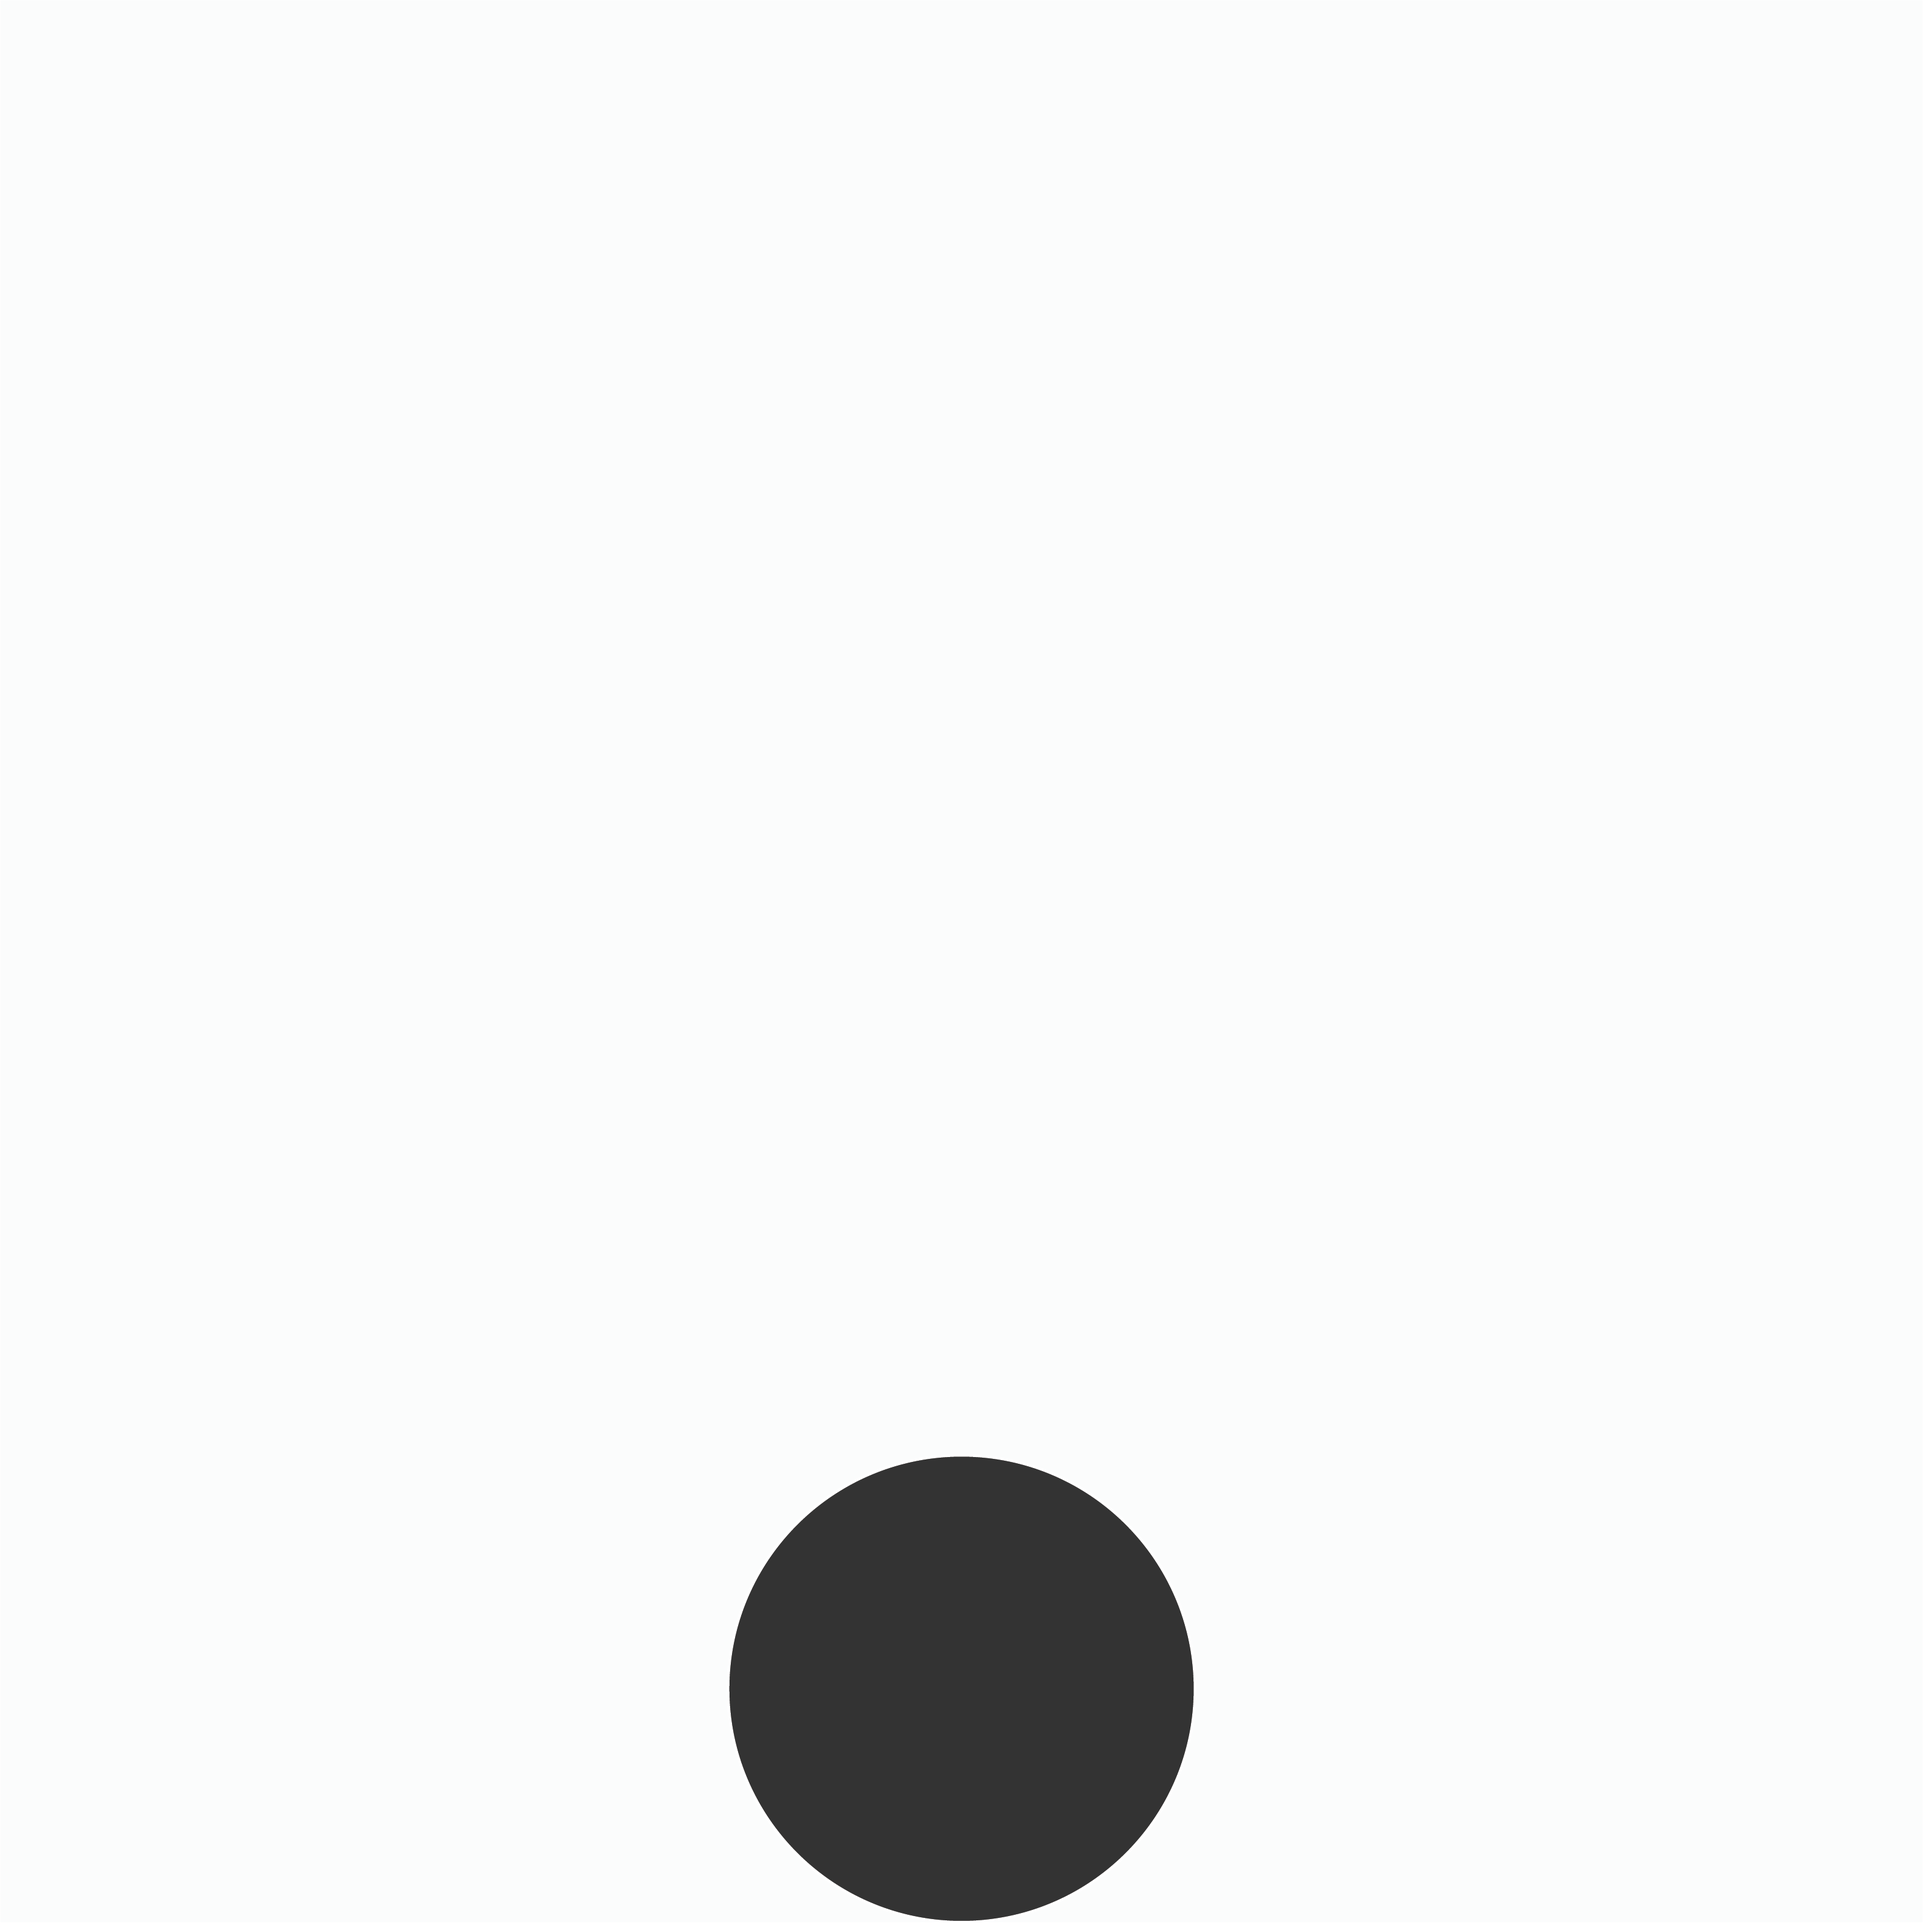
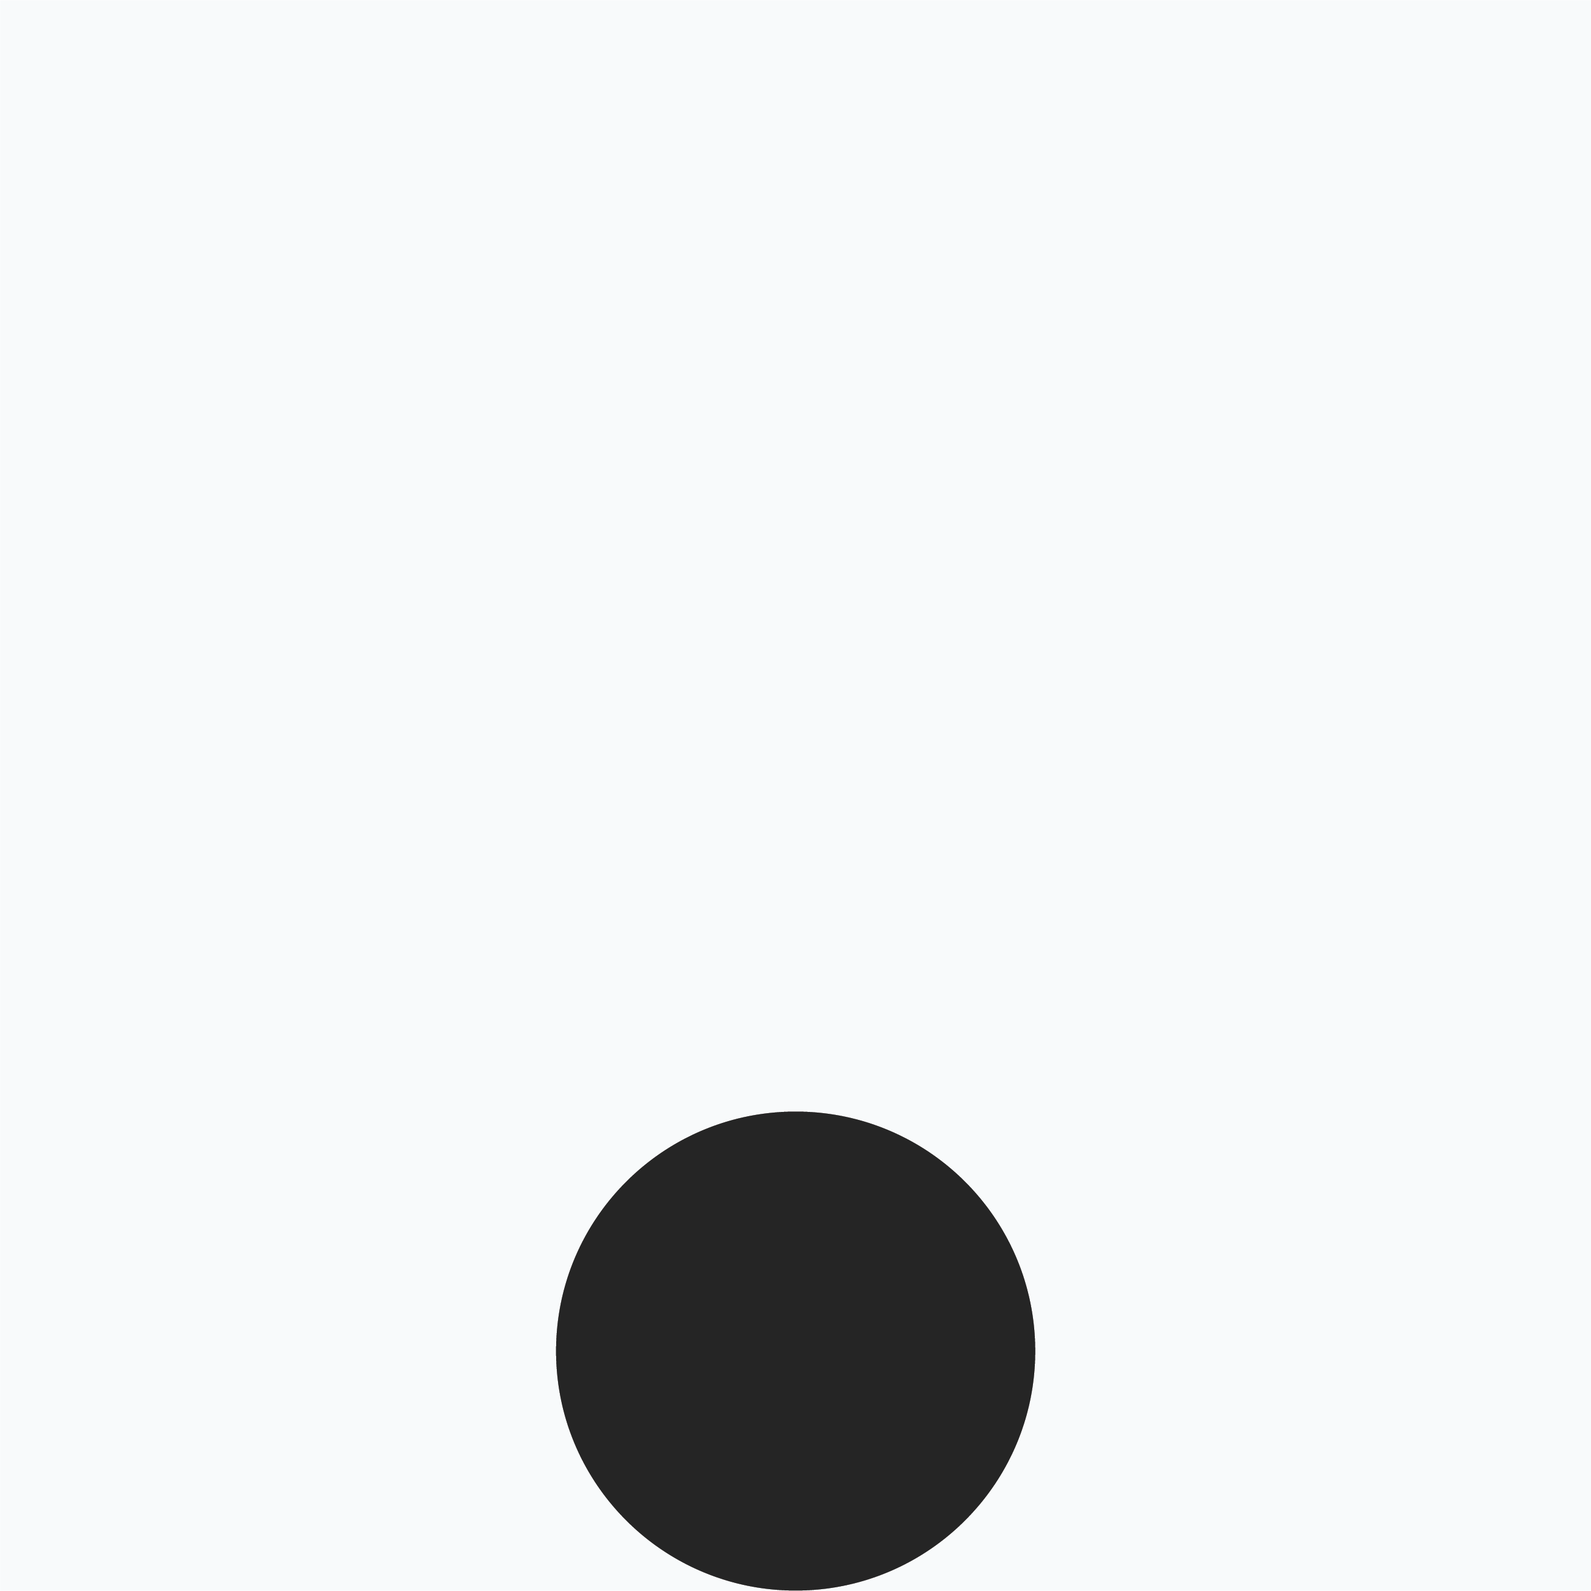
Done

diff --git a/style.css b/style.css
@@ -15,17 +15,20 @@
     background-position: center;
     background-size: contain;
 }
+.blend{
+    mix-blend-mode: multiply;
+}
 .eye1{
     z-index: 100;
     position: absolute;
-    width: 0.55rem;
+    width: 0.5rem;
     top: 69px;
     left: 74px;
 }
 .eye2{
     z-index: 100;
     position: absolute;
-    width: 0.55rem;
+    width: 0.5rem;
     top: 69px;
     left: 108px;
 }

diff --git a/index.html b/index.html
@@ -10,7 +10,7 @@
     <div class="charater-area">
         <div class="face" id="face">
             <img class="shape" src="./face.png"/>
-            <div id="eyes">
+            <div id="eyes blend">
                 <img class="eye1 eye" src="./eye.png"/>
                 <img class="eye2 eye" src="./eye.png"/>
             </div>
